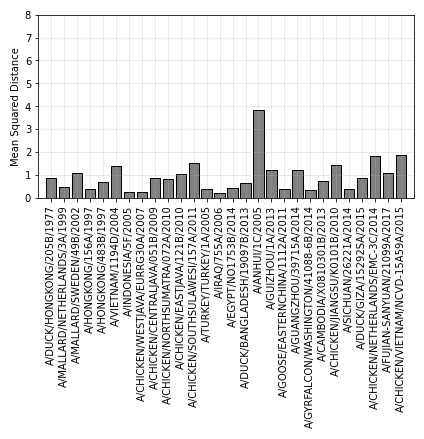
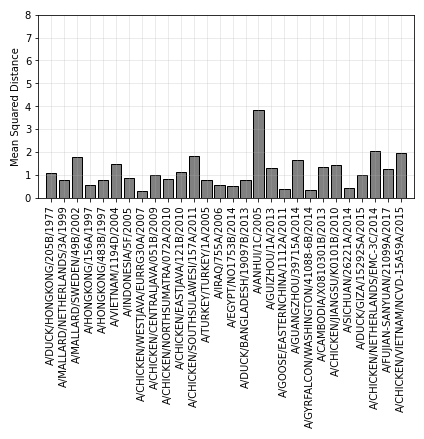
Add files via upload
fixed 3 dims to 4 dims when computing procrustes bar plots

diff --git a/piecewise_procrustes/bar_plots.py b/piecewise_procrustes/bar_plots.py
@@ -29,8 +29,8 @@ if __name__=="__main__":
     df_sr = pd.read_csv(f"./output/sr_ppc_data_{npieces}.csv", header=0,
                         index_col=0)
 
-    pc_data_ag = df_ag.iloc[:,:3].values
-    pc_data_sr = df_sr.iloc[:,:3].values
+    pc_data_ag = df_ag.iloc[:,:4].values
+    pc_data_sr = df_sr.iloc[:,:4].values
 
     fig1,ax1 = plt.subplots(1,1, figsize=(0.175*nag+1, 7.5))
 
